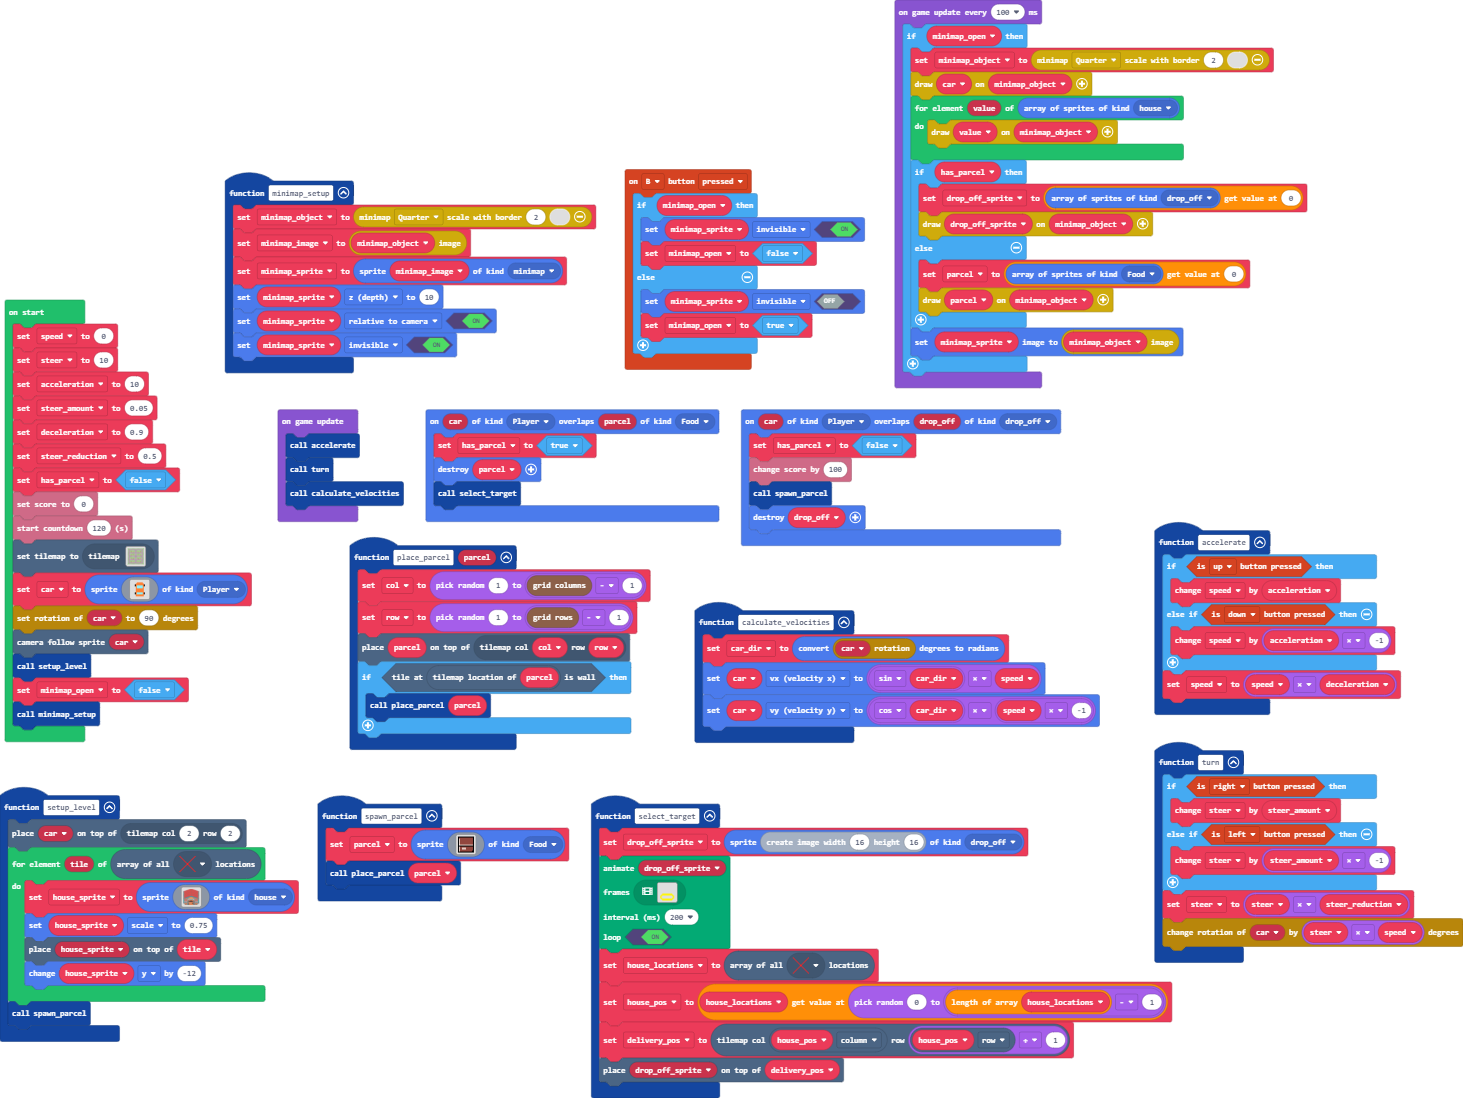
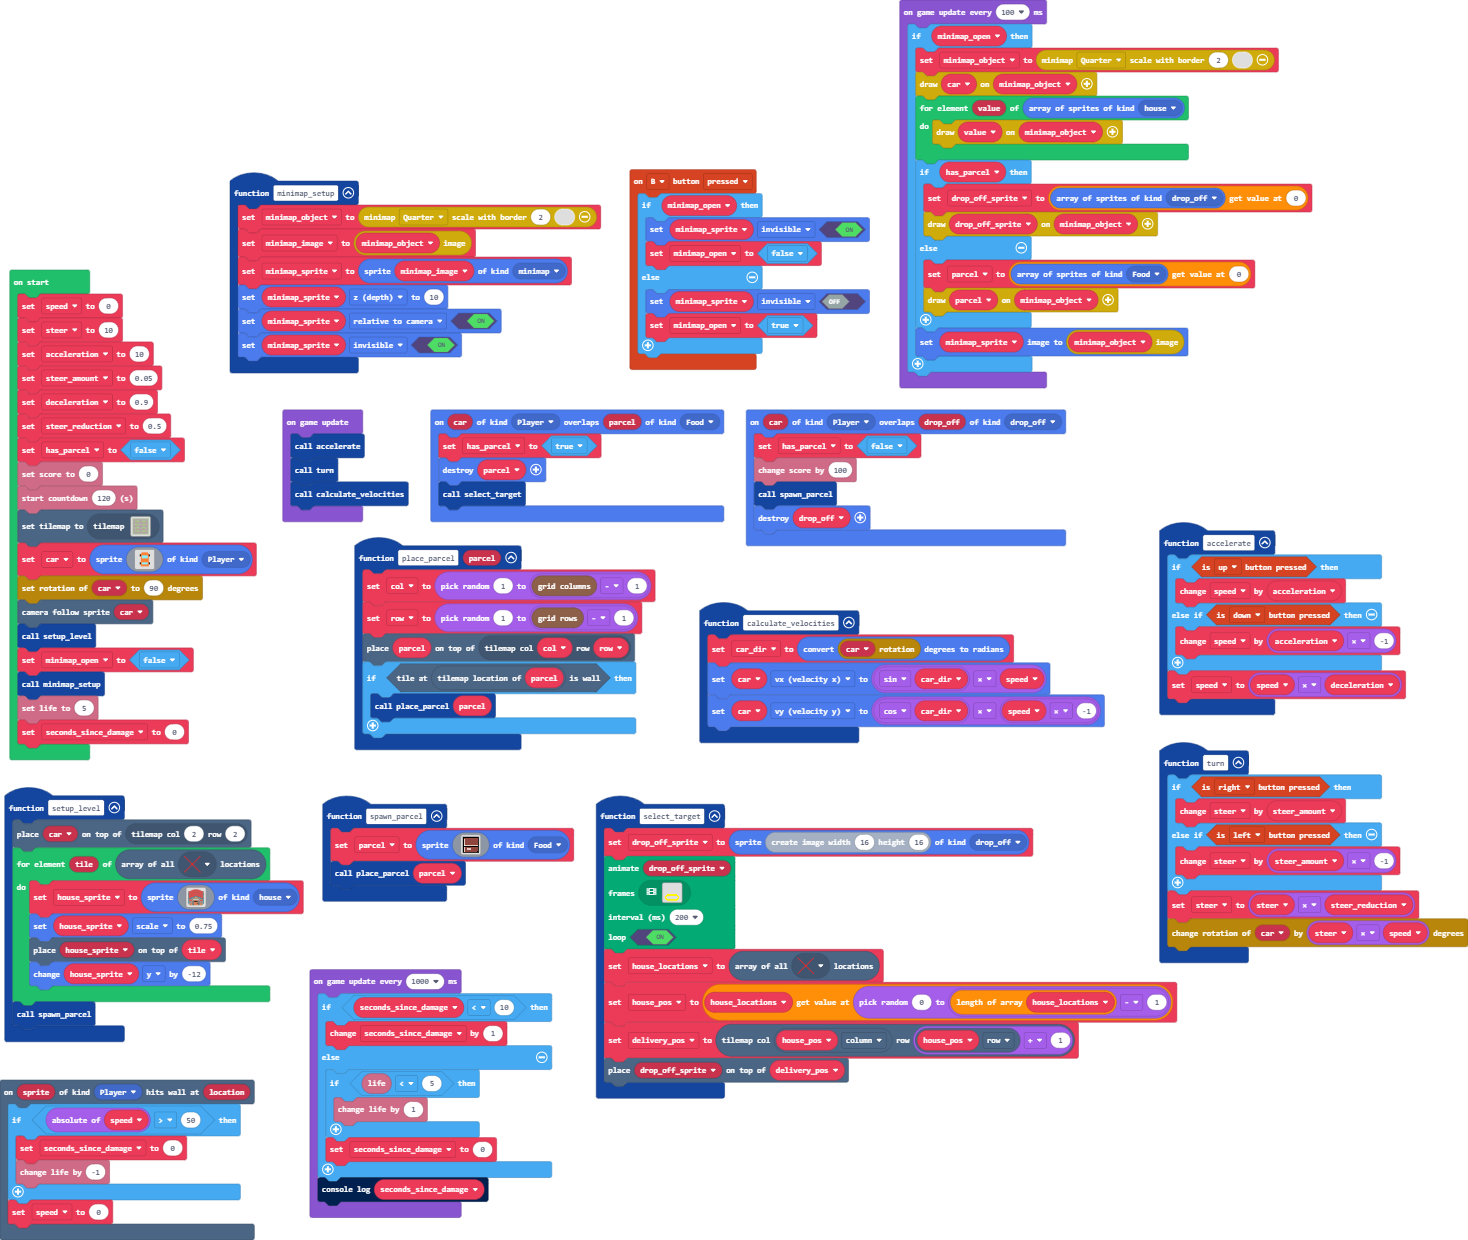
w2 guided

diff --git a/main.ts b/main.ts
@@ -3,6 +3,13 @@ namespace SpriteKind {
     export const house = SpriteKind.create()
     export const minimap = SpriteKind.create()
 }
+scene.onHitWall(SpriteKind.Player, function (sprite, location) {
+    if (Math.abs(speed) > 50) {
+        seconds_since_damage = 0
+        info.changeLifeBy(-1)
+    }
+    speed = 0
+})
 controller.B.onEvent(ControllerButtonEvent.Pressed, function () {
     if (minimap_open) {
         minimap_sprite.setFlag(SpriteFlag.Invisible, true)
@@ -100,6 +107,7 @@ let drop_off_sprite: Sprite = null
 let parcel: Sprite = null
 let car_dir = 0
 let minimap_sprite: Sprite = null
+let seconds_since_damage = 0
 let minimap_open = false
 let car: Sprite = null
 let has_parcel = false
@@ -125,10 +133,23 @@ scene.cameraFollowSprite(car)
 setup_level()
 minimap_open = false
 minimap_setup()
+info.setLife(5)
+seconds_since_damage = 0
 game.onUpdate(function () {
     accelerate()
     turn()
     calculate_velocities()
+})
+game.onUpdateInterval(1000, function () {
+    if (seconds_since_damage < 10) {
+        seconds_since_damage += 1
+    } else {
+        if (info.life() < 5) {
+            info.changeLifeBy(1)
+        }
+        seconds_since_damage = 0
+    }
+    console.log(seconds_since_damage)
 })
 game.onUpdateInterval(100, function () {
     if (minimap_open) {
